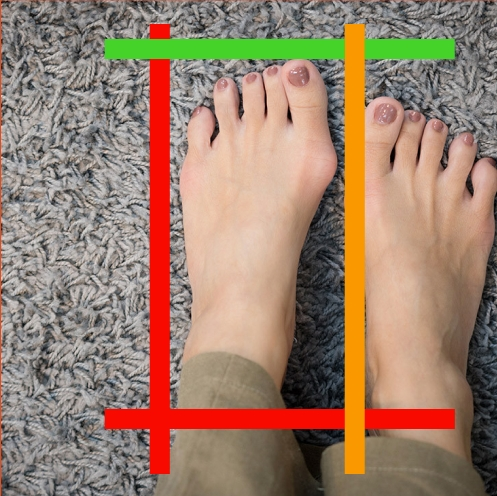
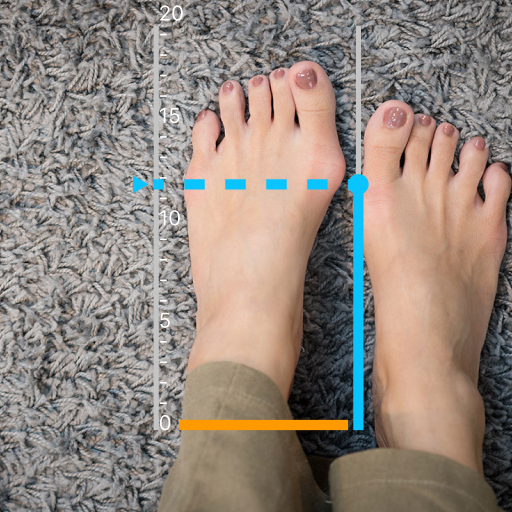
update 22/6/65

diff --git a/lib/utility/my_style.dart b/lib/utility/my_style.dart
@@ -10,7 +10,7 @@ class MyStyle {
   Color redColor = Colors.red;
   Color appbarColor = Colors.red;
   String detail1 =
-      '1. ให้กล้องห่างจากเท้าในระยะ 40 ซม. หรือ 16 นิ้ว เท่านั้น\n2. ให้ปลายส้นเท้าซ้ายหรือขวา(เพียงข้างเดียว) และด้านข้างของเท้าอยู่ชิดติดเส้นสีแดงทั้งแนวตั้งและแนวนอน\n3. กดปุ่มเพิ่มขนาดหรือลดขนาด เพื่อให้เส้นชิดขอบทุกด้านของเท้าลูกค้า เพื่อวัดความกว้างของเท้า\n4. ระบบจะแสดงความกว้างและความยาวของเท้าลูกค้า โดยเพื่อความสบายในการใส่ ลูกค้าสามารถกดเพิ่มขนาดและลดขนาด เพื่อเลือกไซส์ที่ท่านต้องการ เมื่อถูกต้องให้กดถ่าย';
+      '1. ให้กล้องห่างจากเท้าในระยะ 40 ซม. หรือ 16 นิ้ว เท่านั้น\n2. ให้ปลายส้นเท้าซ้ายหรือขวา(เพียงข้างเดียว) และส้นของเท้าอยู่ชิดติดเส้นสีส้มในแนวตั้ง\n3. เลื่อนสไลด์ขึ้น - ลง เพื่อให้เส้นประสีน้ำเงินกระพริบ ชิดปลายนิ้วที่ยาวที่สุดของเท้าลูกค้า เพื่อวัดความยาวของเท้า\n4. ระบบจะแสดงความยาวของเท้าลูกค้า โดยเพื่อความสบายในการใส่ ลูกค้าสามารถเลื่อนสไลด์ขึ้น - ลง เพื่อเลือกความยาวของเท้าที่ท่านต้องการ เมื่อถูกต้องให้กดถ่าย';
   String detail2 =
       '1. ห้ามใส่เสื้อคลุมหรือใส่ชุดที่จะทำให้การวัดขนาดของเอวท่านไม่ตรงกับความเป็นจริง\n2. ให้ขยับกล้องขึ้นลงเพื่อให้แกนสีแดงและสีส้มตรงกับตำแหน่งของการใส่เข็มขัดจริงของคุณลูกค้า ระบบจะแสดงขนาดรอบเอวขั้นต้นออกมา(เพื่อป้องกันข้อมูลคลาดเคลื่อน กรุณาให้เส้นแดงและเหลืองอยู่ในระดับที่ใส่เข็มขัดจริงเท่านั้น)\n3. ลูกค้าสามารถใช้นิ้วกดค้างที่เส้นสีเขียวเพื่อเลื่อนตำแหน่งเข้า-ออก เพื่อให้แสดงข้อมูลของการวัดที่ถูกต้องที่สุด เมื่อถูกต้องให้กดถ่าย';
  // String detail2 =
